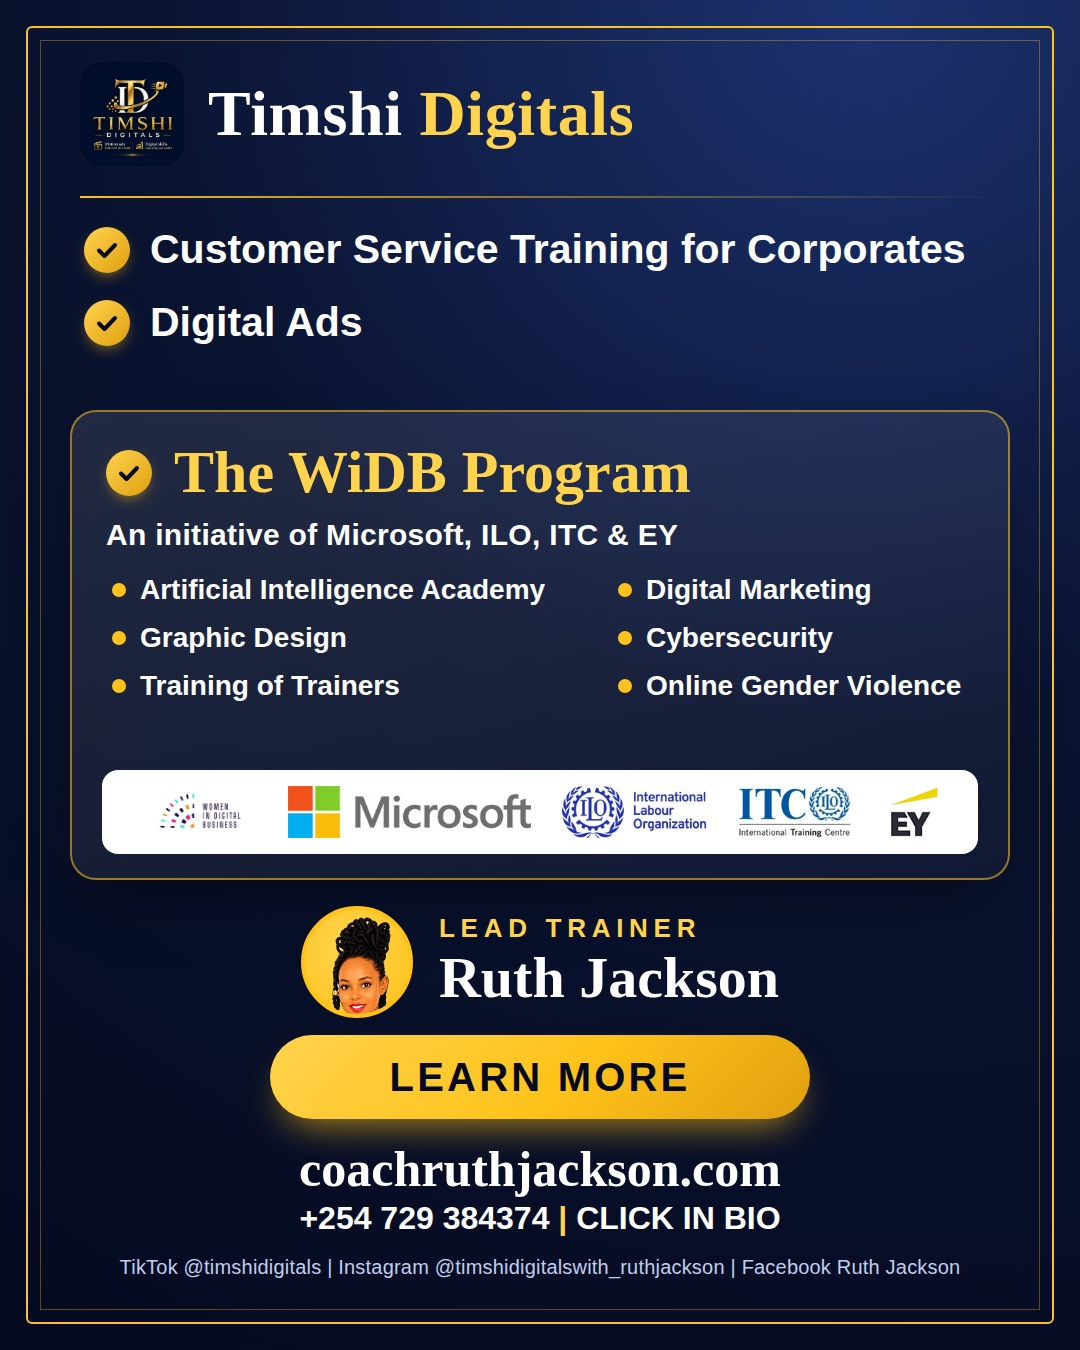
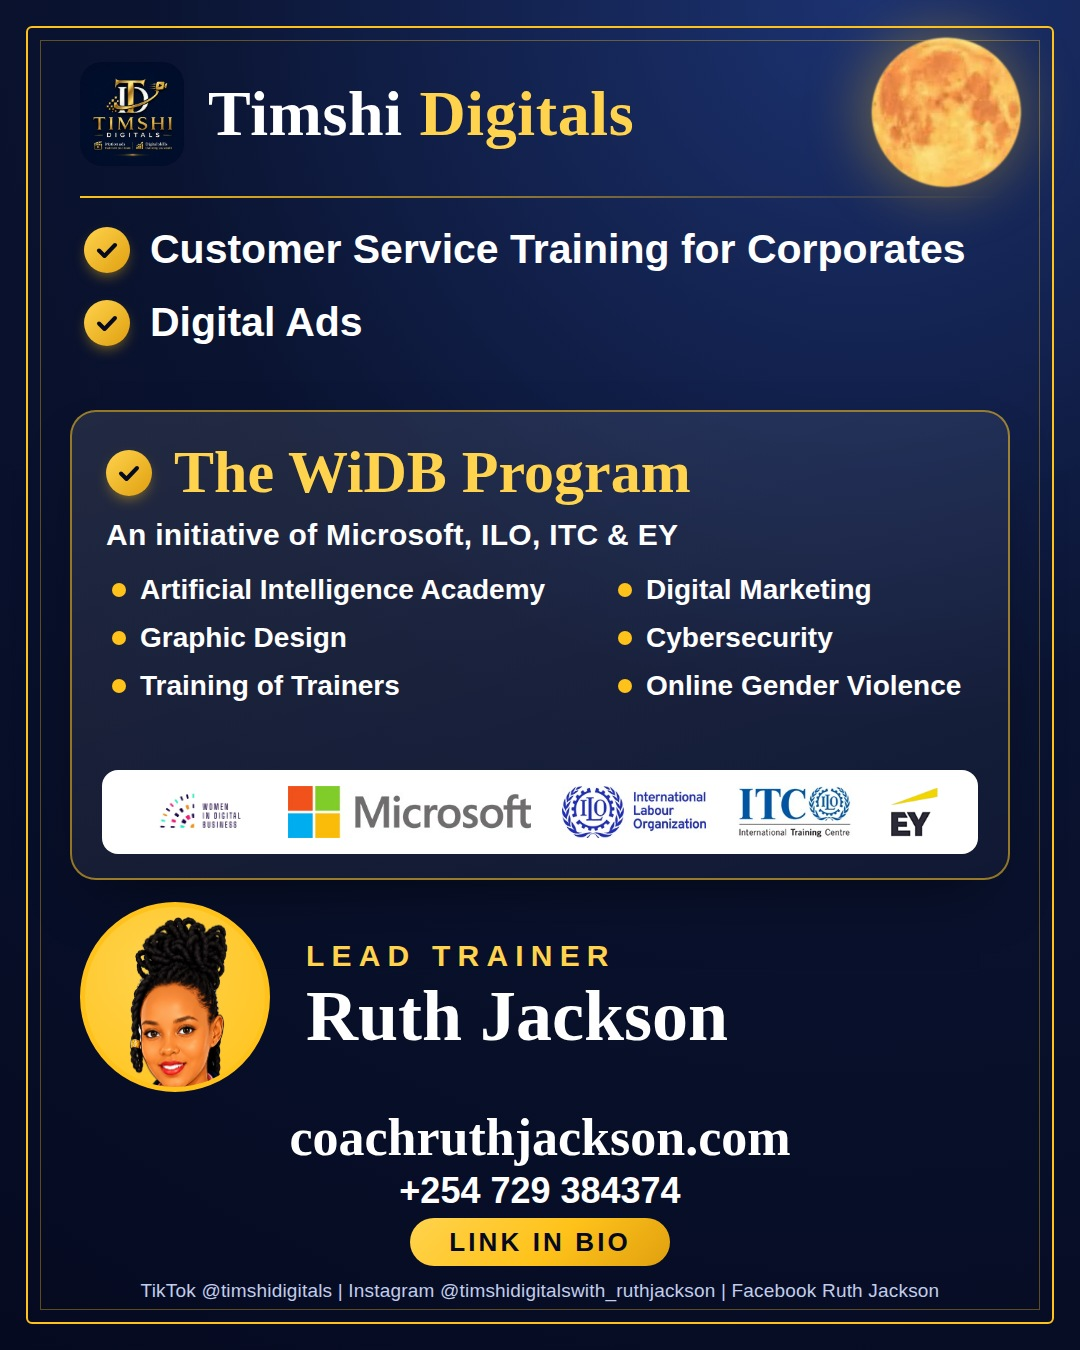
Poster: moon in corner, portrait left for lead trainer, contact at bottom, remove learn more
Claude-Session: https://claude.ai/code/session_01BuedDNHZYcRoXDUMnpxN87

Changed region(s): [[0.0611, 0.6533, 0.8861, 0.9644], [0.7639, 0.0, 0.9778, 0.1556]]

diff --git a/social/posters/build-programs-poster.js b/social/posters/build-programs-poster.js
@@ -2,6 +2,7 @@ const { chromium } = require('/opt/node-tools/node_modules/playwright');
 const path = require('path');
 const R = path.join(__dirname, '..', '..'), K = path.join(R, 'social/carousel-kit/assets');
 const L = n => 'file://' + R + '/assets/img/' + n;
+const MOON = 'file://' + K + '/moon-gold.png';
 const PIC = 'file://' + K + '/ruth-cutout.png', EY = 'file://' + K + '/ey-logo.png', LOGO = L('timshi-digitals-logo.jpg');
 const courses = ['Artificial Intelligence Academy', 'Digital Marketing', 'Graphic Design', 'Cybersecurity', 'Training of Trainers', 'Online Gender Violence'];
 const tick = `<span class="tick"><svg width="30" height="30" viewBox="0 0 30 30"><path d="M7 15.5l5.5 5.5L23 10" stroke="#050a20" stroke-width="4" fill="none" stroke-linecap="round" stroke-linejoin="round"/></svg></span>`;
@@ -16,6 +17,7 @@ const html = `<style>*{box-sizing:border-box;margin:0}body{width:1080px;height:1
 .btn{position:absolute;left:50%;margin-left:-270px;top:1035px;width:540px;height:84px;border-radius:50px;background:linear-gradient(135deg,#ffd34d,#ffc21a 55%,#e0a010);color:#050a20;font-size:40px;font-weight:900;letter-spacing:.08em;display:grid;place-items:center;box-shadow:0 18px 36px -14px rgba(255,194,26,.7)}
 </style>
 <div class="frame"></div><div class="frame2"></div>
+<div class="abs" style="top:58px;right:84px;width:108px;height:108px;border-radius:50%;box-shadow:0 0 56px 26px rgba(255,194,26,.35)"></div><img class="abs" src="${MOON}" style="top:34px;right:56px;width:156px;height:156px">
 <div class="abs" style="top:62px;left:80px;display:flex;align-items:center;gap:24px"><img src="${LOGO}" style="width:104px;height:104px;border-radius:22px"><div class="serif" style="font-size:64px;font-weight:700;letter-spacing:.01em">Timshi <span class="g">Digitals</span></div></div>
 <div class="abs" style="top:196px;left:80px;right:80px;height:2px;background:linear-gradient(90deg,#ffc21a,rgba(255,194,26,0))"></div>
 <div class="abs" style="top:226px;left:84px;right:60px;display:flex;flex-direction:column;gap:26px"><div class="row">${tick}Customer Service Training for Corporates</div><div class="row">${tick}Digital Ads</div></div>
@@ -25,13 +27,13 @@ const html = `<style>*{box-sizing:border-box;margin:0}body{width:1080px;height:1
  <div class="abs cl" style="top:162px;left:40px;right:30px">${courses.map(c => `<div><i></i>${c}</div>`).join('')}</div>
  <div class="logos"><img src="${L('partner-widb.jpg')}" style="max-height:64px"><img src="${L('partner-microsoft.jpg')}"><img src="${L('partner-ilo.jpg')}"><img src="${L('partner-itc.jpg')}"><img src="${EY}" style="max-height:60px"></div>
 </div>
-<div class="abs" style="top:906px;left:0;right:0;display:flex;align-items:center;justify-content:center;gap:26px">
- <div style="width:112px;height:112px;border-radius:50%;border:4px solid #ffc21a;overflow:hidden;background:radial-gradient(circle at 40% 35%,#ffd34d,#ffc21a)"><img src="${PIC}" style="width:150px;margin:6px 0 0 -19px"></div>
- <div><div style="font-size:26px;letter-spacing:.22em;font-weight:800" class="g">LEAD TRAINER</div><div class="serif" style="font-size:58px;font-weight:700">Ruth Jackson</div></div></div>
-<div class="btn">LEARN MORE</div>
-<div class="abs serif" style="top:1140px;left:0;right:0;text-align:center;font-size:50px;font-weight:700">coachruthjackson.com</div>
-<div class="abs" style="top:1200px;left:0;right:0;text-align:center;font-size:32px;font-weight:600" >+254 729 384374 <span class="g">|</span> CLICK IN BIO</div>
-<div class="abs" style="top:1256px;left:0;right:0;text-align:center;font-size:20px;color:#c2cdec;letter-spacing:.01em">TikTok @timshidigitals  |  Instagram @timshidigitalswith_ruthjackson  |  Facebook Ruth Jackson</div>`;
+<div class="abs" style="top:902px;left:80px;right:80px;display:flex;align-items:center;gap:36px">
+ <div style="width:190px;height:190px;border-radius:50%;border:5px solid #ffc21a;overflow:hidden;background:radial-gradient(circle at 40% 35%,#ffd34d,#ffc21a);flex:0 0 auto"><img src="${PIC}" style="width:250px;margin:8px 0 0 -32px"></div>
+ <div><div style="font-size:30px;letter-spacing:.24em;font-weight:800" class="g">LEAD TRAINER</div><div class="serif" style="font-size:72px;font-weight:700;line-height:1.05;margin-top:6px">Ruth Jackson</div></div></div>
+<div class="abs serif" style="top:1108px;left:0;right:0;text-align:center;font-size:52px;font-weight:700">coachruthjackson.com</div>
+<div class="abs" style="top:1170px;left:0;right:0;text-align:center;font-size:36px;font-weight:700">+254 729 384374</div>
+<div class="abs" style="top:1218px;left:50%;margin-left:-130px;width:260px;height:48px;border-radius:30px;background:linear-gradient(135deg,#ffd34d,#ffc21a 55%,#e0a010);color:#050a20;font-size:26px;font-weight:900;letter-spacing:.12em;display:grid;place-items:center">LINK IN BIO</div>
+<div class="abs" style="top:1280px;left:0;right:0;text-align:center;font-size:19px;color:#c2cdec;letter-spacing:.01em">TikTok @timshidigitals  |  Instagram @timshidigitalswith_ruthjackson  |  Facebook Ruth Jackson</div>`;
 (async () => {
   const b = await chromium.launch({ executablePath: '/opt/pw-browsers/chromium' });
   const pg = await b.newPage({ viewport: { width: 1080, height: 1350 } });
